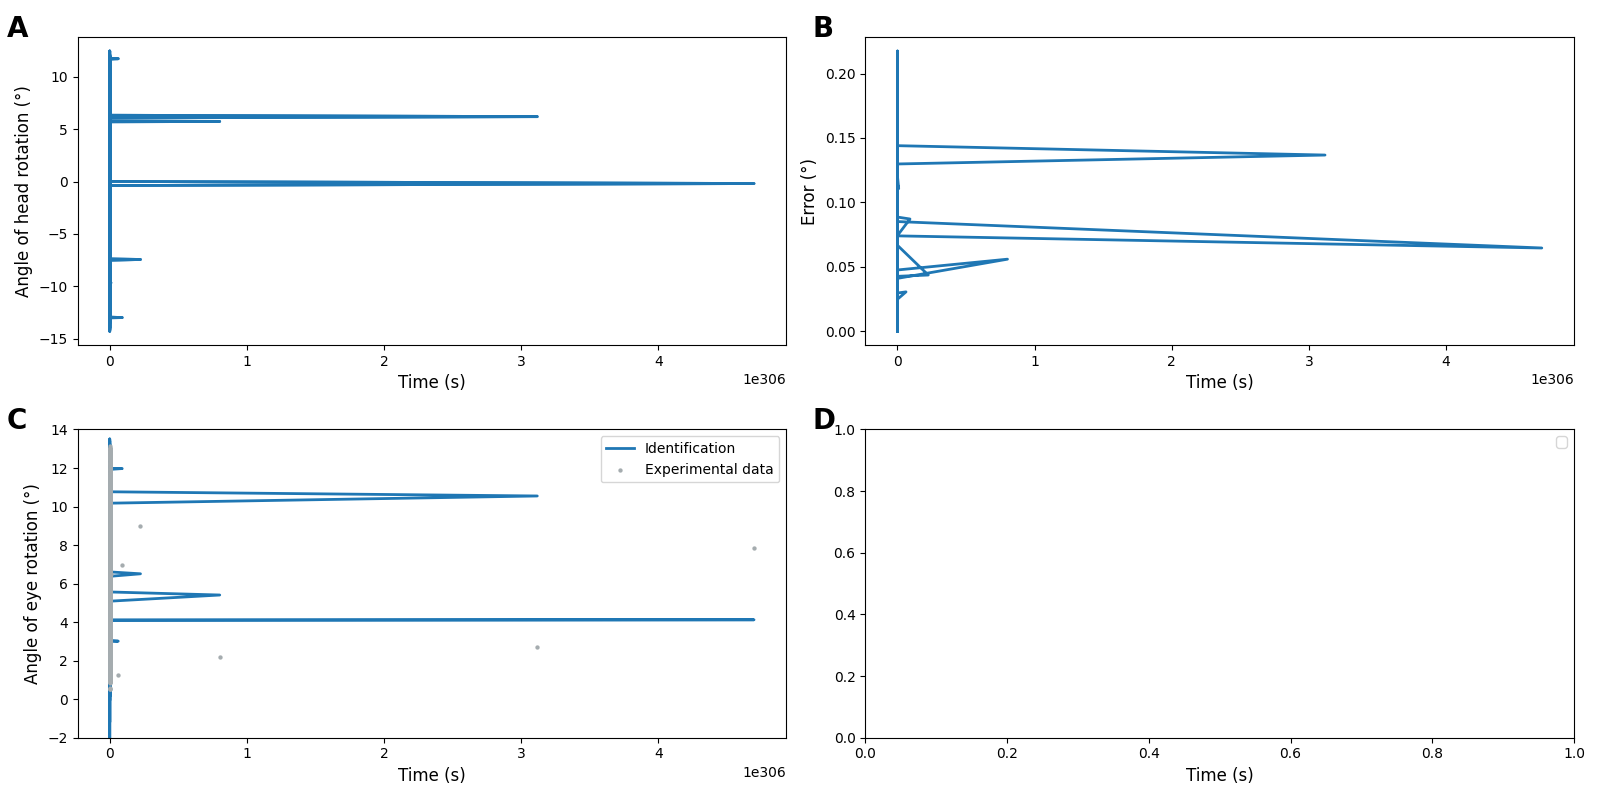
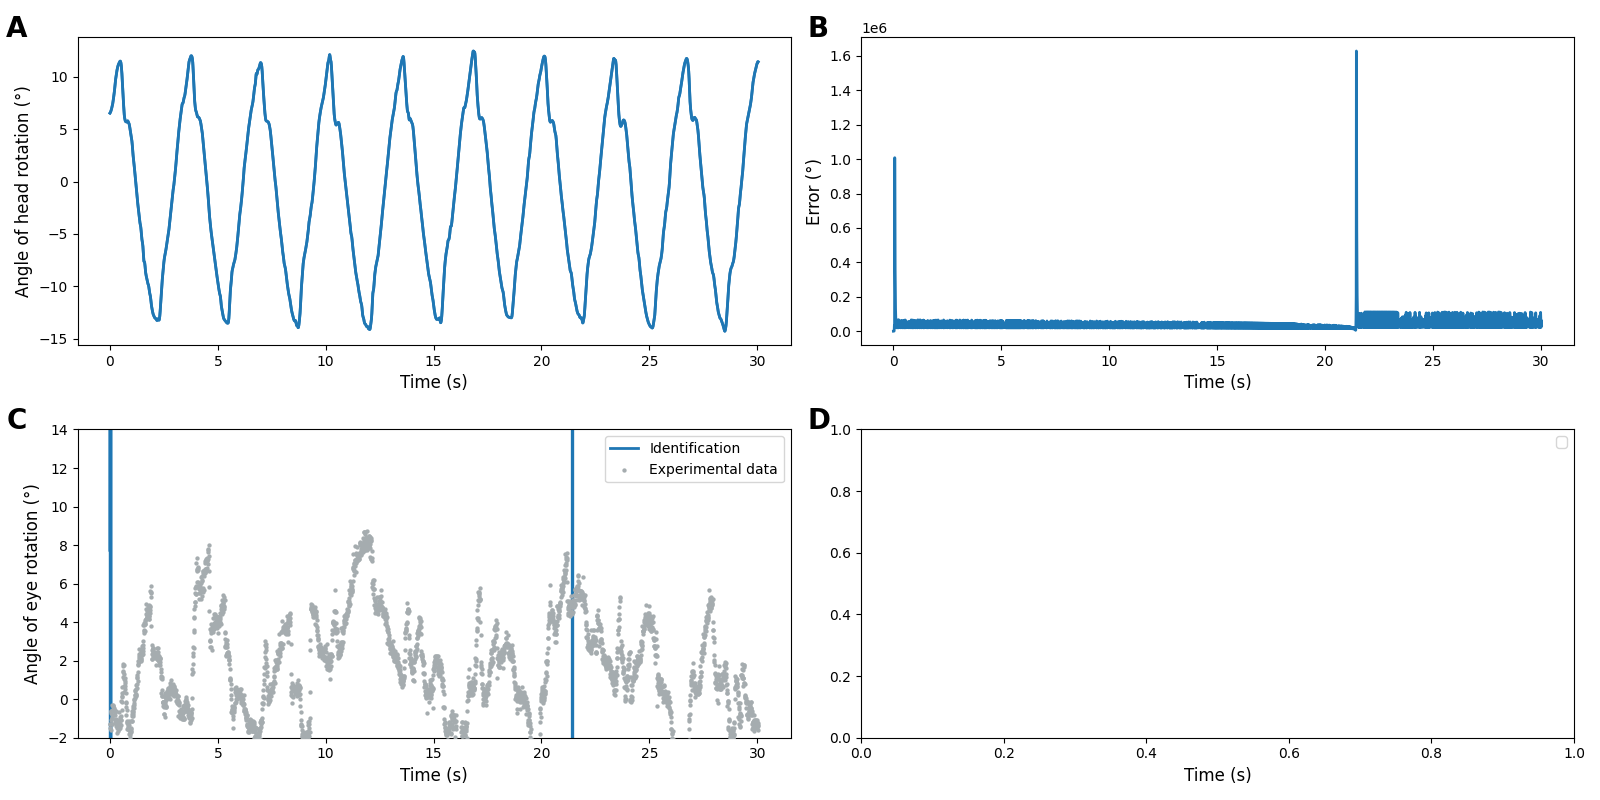
Minor changes

diff --git a/main.cpp b/main.cpp
@@ -1,5 +1,6 @@
 #include "SpikeDNNet.hpp"
 #include "IzhikevichActivation.hpp"
+#include "SigmoidActivation.hpp"
 #include "Utility.hpp"
 
 #include <xtensor/xarray.hpp>
@@ -16,24 +17,10 @@
 
 int main(int argc, char** argv)
 {
-    // xt::xarray<int> a{1,2,3};
-    // double av = xt::average(a)();
-    // std::cout << av;
-
-    // std::cout << a << "\n";
-    // auto av = xt::view(a, xt::all(), 0, 0);
-    // av.assign(xt::arange<int>(0, 3));
-    // std::cout << a << '\n';
-
     auto tr_target  = xt::load_npy<double>("../train_data/tr_target.npy");
     auto tr_control = xt::load_npy<double>("../train_data/tr_control.npy");
     auto vl_target  = xt::load_npy<double>("../train_data/vl_target.npy");
     auto vl_control = xt::load_npy<double>("../train_data/vl_control.npy");
-
-    // auto tr_target  = nc::fromfile<double>("train_data/tr_target.dmp").reshape(-1, 2);
-    // auto tr_control = nc::fromfile<double>("train_data/tr_control.dmp").reshape(-1, 2);
-    // auto vl_target  = nc::fromfile<double>("train_data/vl_target.dmp").reshape(-1, 2);
-    // auto vl_control = nc::fromfile<double>("train_data/vl_control.dmp").reshape(-1, 2);
 
     const std::uint32_t width    = 4394u;
     const std::int32_t split     = 3305;
@@ -44,6 +31,9 @@ int main(int argc, char** argv)
 
     auto izh_act_1 = new CxxSDNN::IzhikevichActivation(dim);
     auto izh_act_2 = new CxxSDNN::IzhikevichActivation(dim);
+    // auto sigm_act_1 = new CxxSDNN::SigmoidActivation();
+    // auto sigm_act_2 = new CxxSDNN::SigmoidActivation();
+
 
     auto W_1 = 20. * xt::ones<double>({dim, dim})  ;
     auto W_2 = 20. * xt::ones<double>({dim, dim});
@@ -72,13 +62,15 @@ int main(int argc, char** argv)
     auto res = UtilityFunctionLibrary::dnn_validate(dnn, folds, n_epochs, k_points);
 
     std::cout << res;
-
-    auto error = xt::abs(xt::col(tr_target, 0) - xt::col(res.tr_est[0], 0));
-
-    xt::dump_npy("../plot_data/error.npy", error);
-    xt::dump_npy("../plot_data/target.npy", xt::degrees(xt::col(tr_target, 0)) + 2.);
+    
+    auto error = xt::abs(xt::col(tr_target, 0) - xt::col(res.tr_est[0], 1));
+    // auto wdiff1 = xt::diff(res.W_1)
+    xt::dump_npy("../plot_data/error.npy", xt::degrees(error));
+    xt::dump_npy("../plot_data/target.npy", xt::degrees(xt::col(tr_target, 1)) + 2.);
     xt::dump_npy("../plot_data/control.npy", xt::degrees(tr_control));
-    xt::dump_npy("../plot_data/estimation.npy", xt::degrees(xt::col(res.tr_est[0], 0)) + 2.);
+    xt::dump_npy("../plot_data/estimation.npy", xt::degrees(xt::col(res.tr_est[0], 1)) + 2.);
 
+    delete izh_act_1;
+    delete izh_act_2;
     return 0;
 }

diff --git a/plot.py b/plot.py
@@ -2,11 +2,13 @@ import numpy as np
 import matplotlib.pyplot as plt
 
 
-time = np.fromfile('plot_data/timeline.npy')[:3305]
+time = time = np.linspace(0, 4394, 4394)[:3305] / 110
 tr_target = np.load('plot_data/target.npy')
 tr_control = np.load('plot_data/control.npy')
 tr_est = np.load('plot_data/estimation.npy')
 error = np.load('plot_data/error.npy')
+
+
 
 fig, axs = plt.subplots(2, 2, figsize=(16, 8))
 
